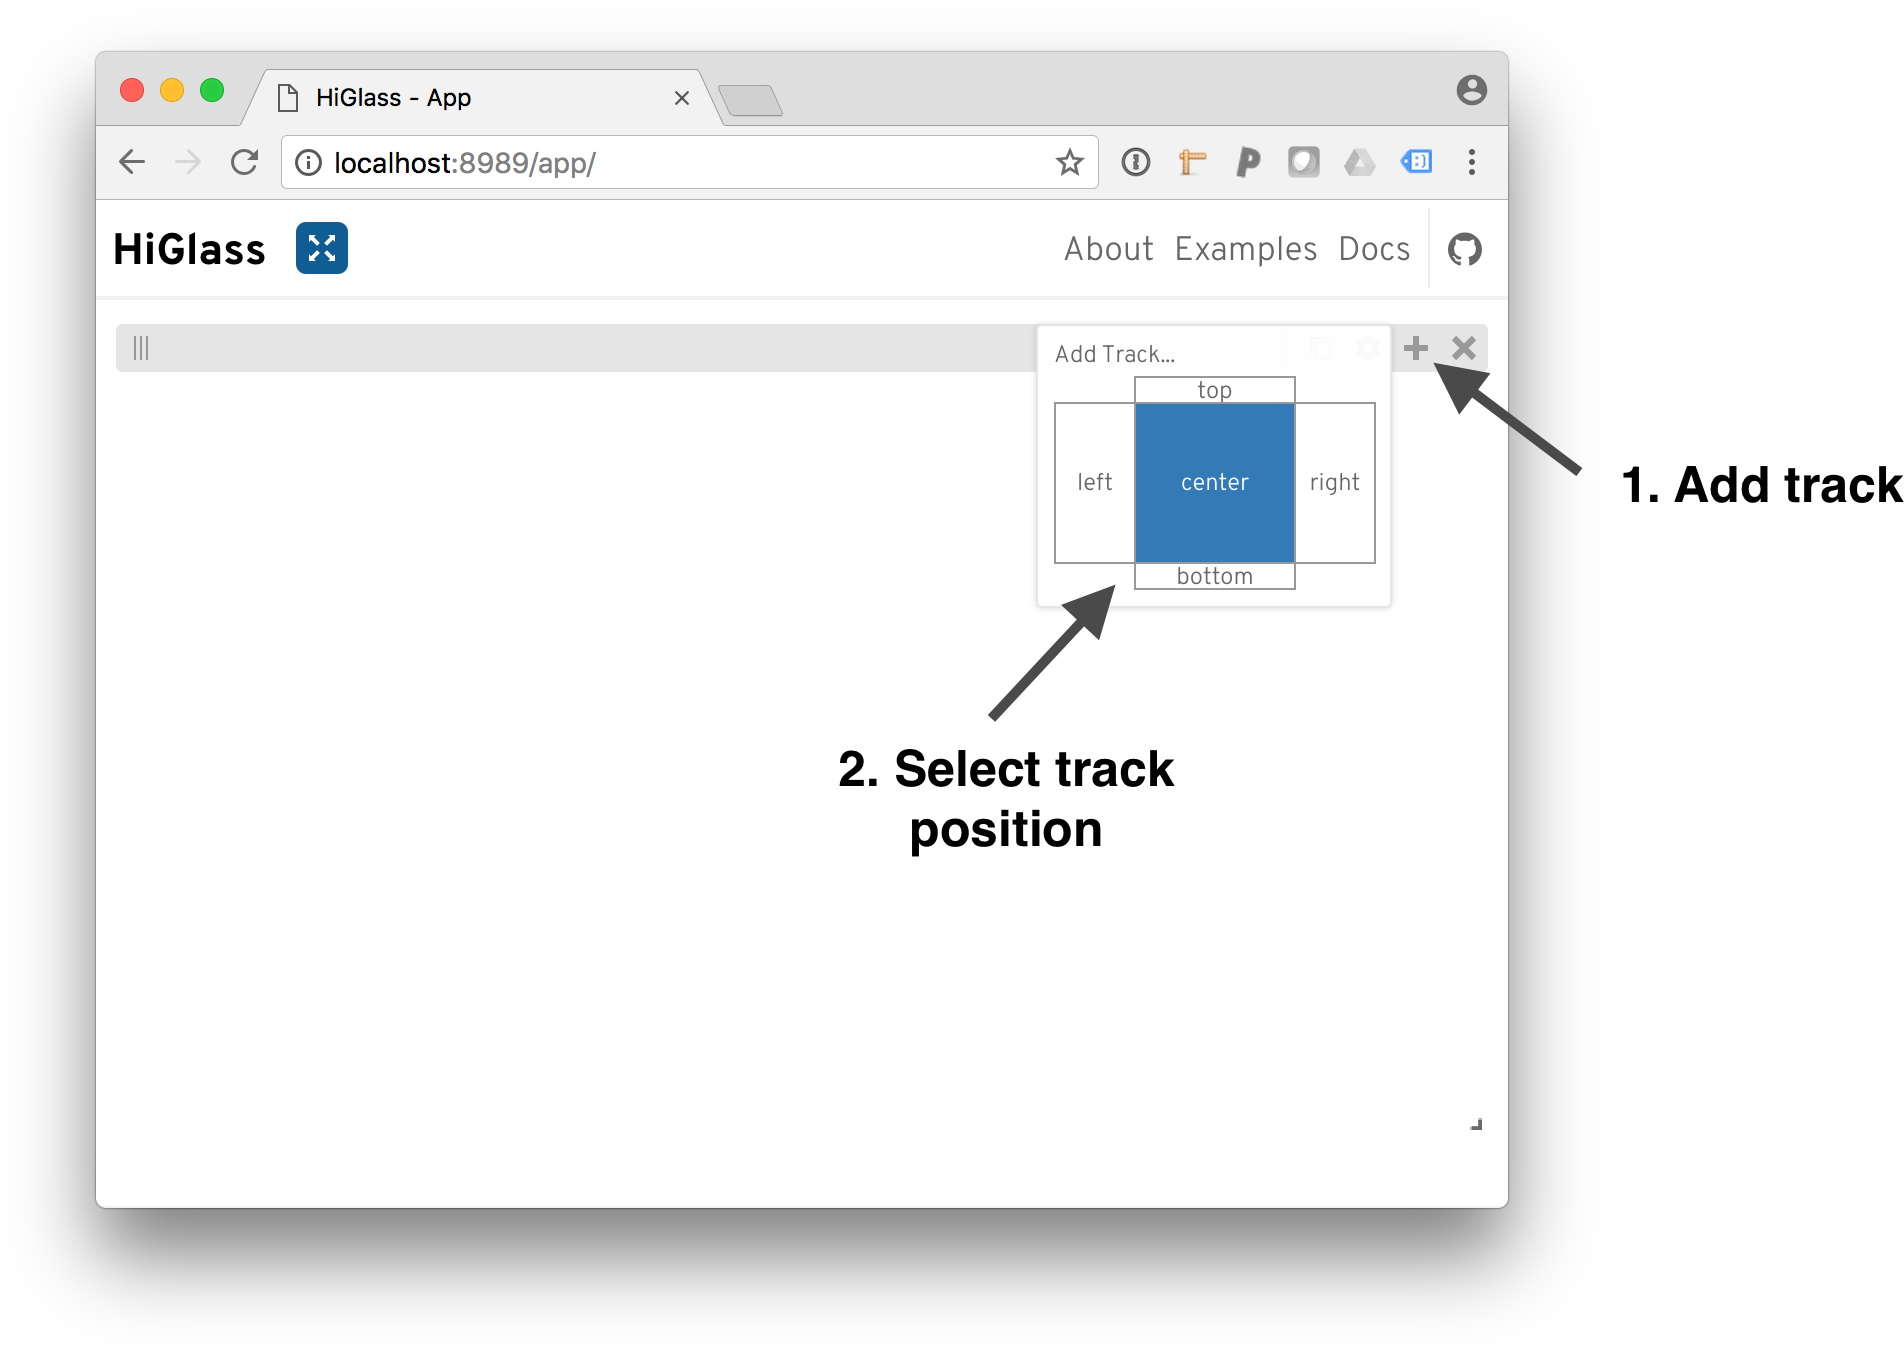
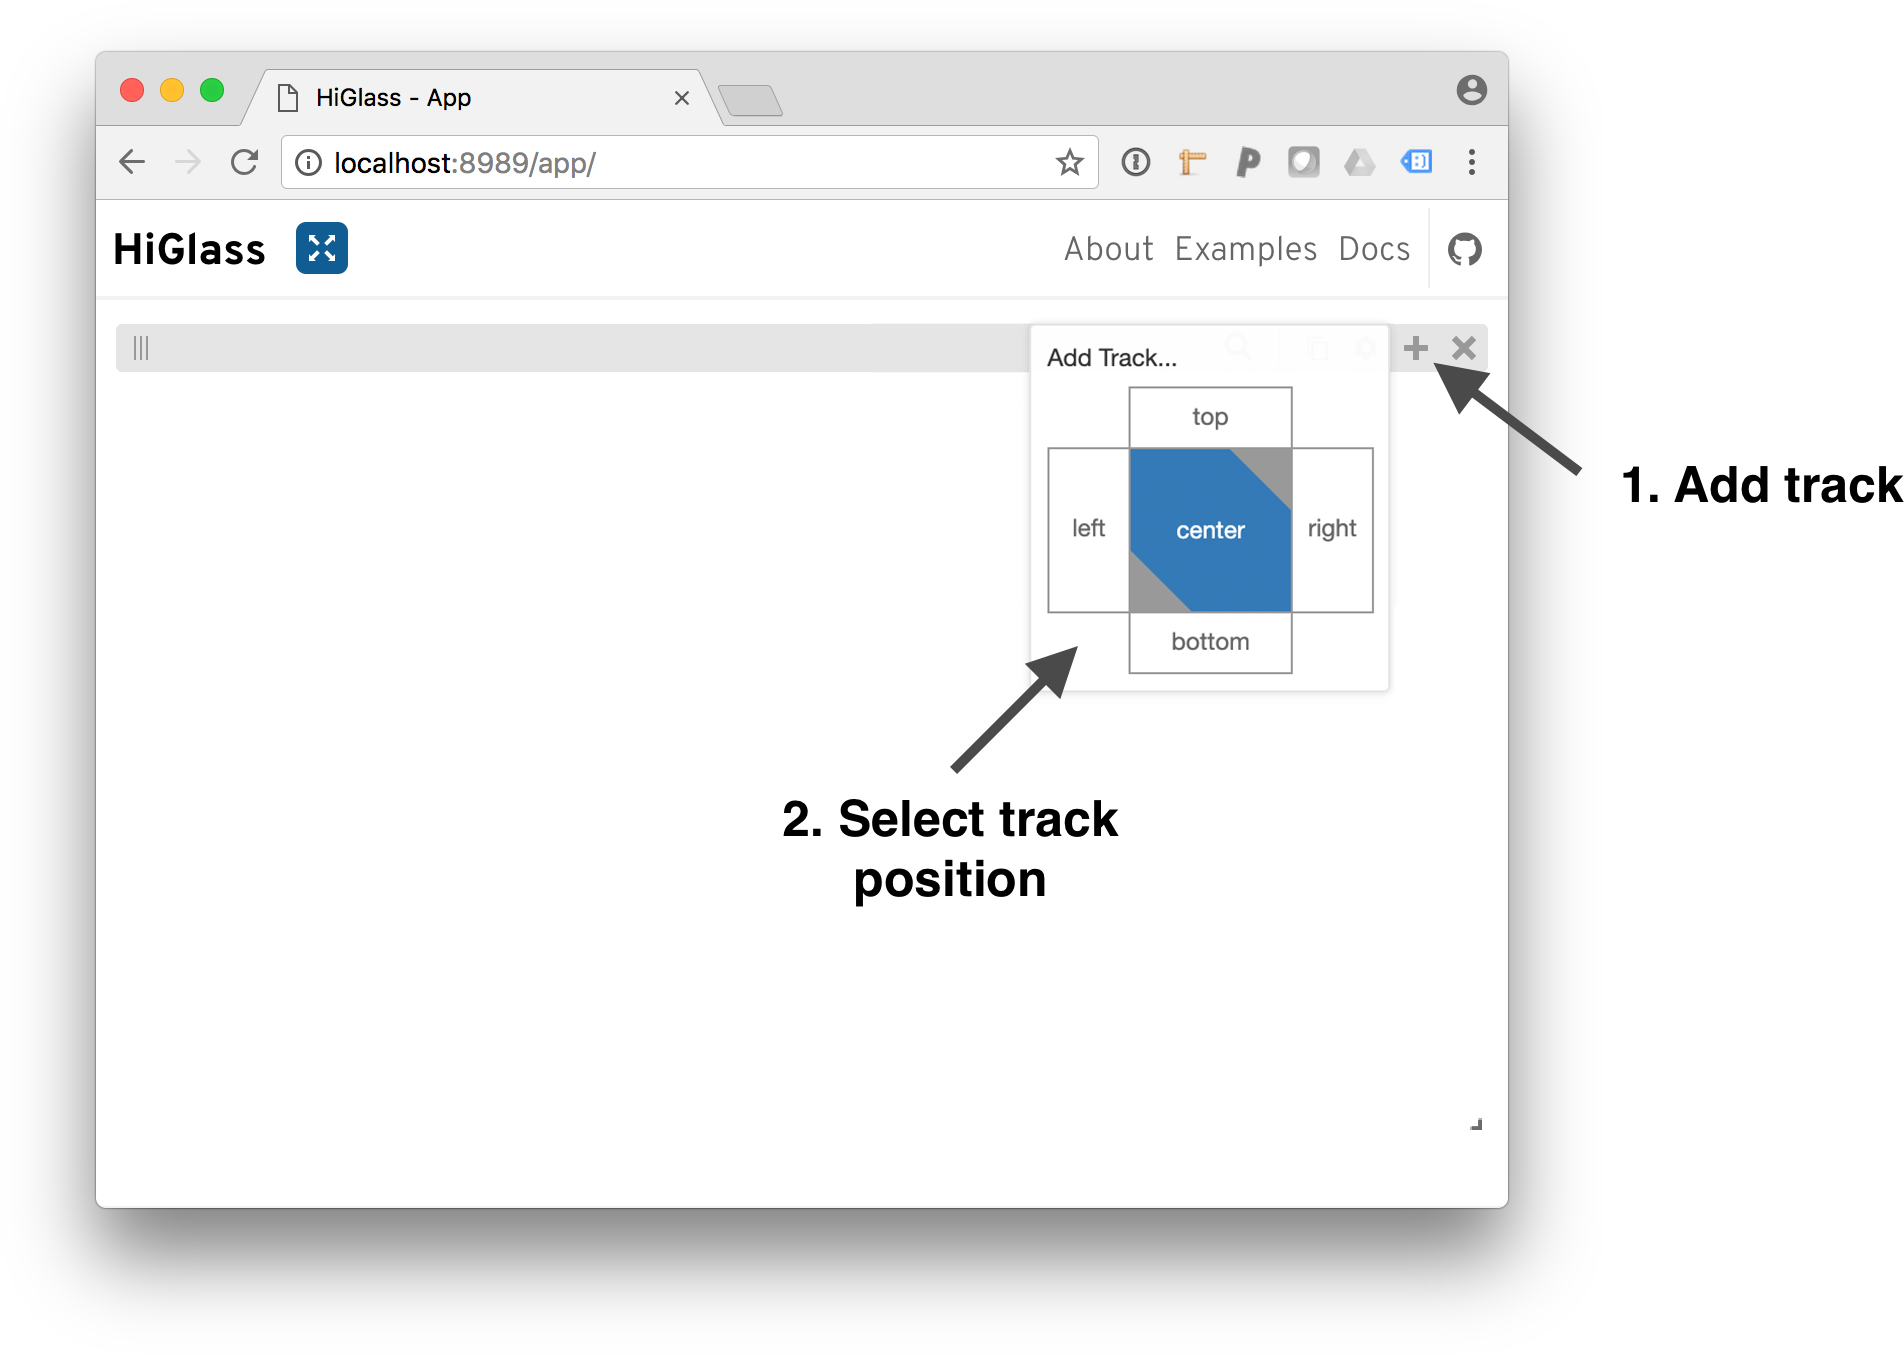
Update docs

Changed region(s): [[0.5268, 0.2478, 0.7127, 0.5265], [0.4028, 0.5265, 0.6197, 0.6814]]

diff --git a/docs/views.rst b/docs/views.rst
@@ -127,3 +127,11 @@ Unlinking
 
 Both zoom and location locks can be removed using the view menu.
 
+Add track position menu
+---------
+
+.. image:: img/add_track_position.png
+    :align: right
+
+When adding a track via the top header bar, the track position must be selected before tileset(s) are selected.
+The lower-left and upper-right corners of the center position button can be used to set the track options `extent: "lower-left"` and `extent: "upper-right"`, respectively. Otherwise, the `extent` option will be set to the default `"full"`.

diff --git a/docs/tutorial.rst b/docs/tutorial.rst
@@ -108,6 +108,7 @@ From there, we need to add the tracks:
     :figwidth: 500px
 
     To add a track, click on the '+' and select a track position.
+    The lower-left and upper-right triangle buttons in the center position provide shortcuts for setting the track options `extent: "lower-left"` and `extent: "upper-right"`, respectively.
 
 After selecting a position, we need to select a dataset to add. The dialog
 shows both the local datasets as well as the public data available on
